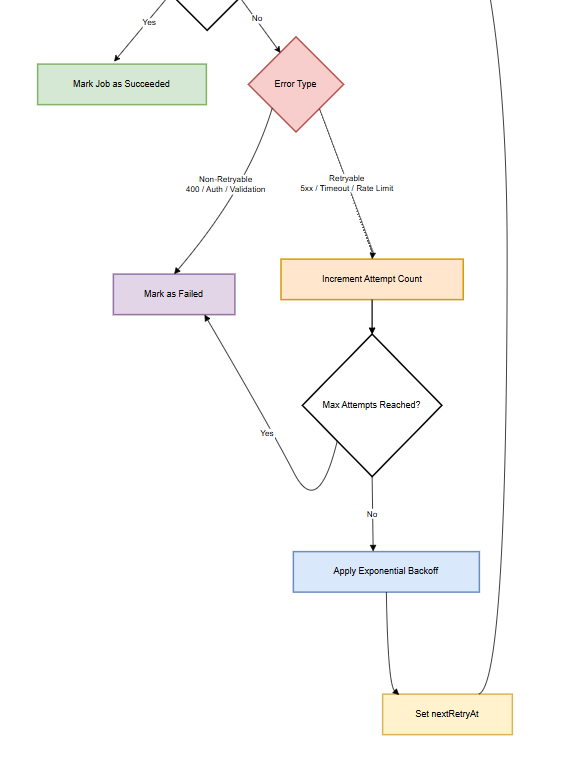
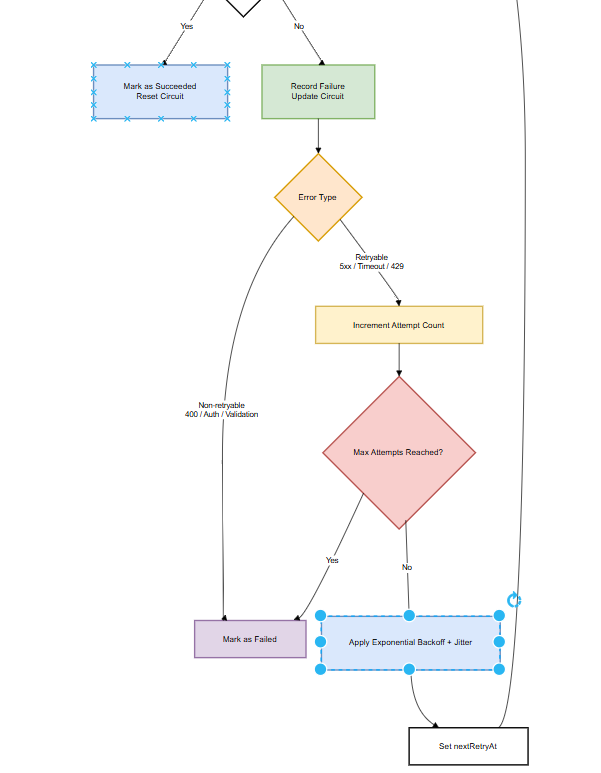
update README + change std to console

diff --git a/backend/prisma/seed.ts b/backend/prisma/seed.ts
@@ -525,9 +525,9 @@ async function main(): Promise<void> {
     ],
   });
 
-  process.stdout.write("Seed complete.\n");
-  process.stdout.write("Password for all seeded users: Password123!\n");
-  process.stdout.write(
+  console.log("Seed complete.");
+  console.log("Password for all seeded users: Password123!");
+  console.log(
     [
       admin.email,
       managerAlex.email,
@@ -542,13 +542,13 @@ async function main(): Promise<void> {
       bankerSummitMortgage.email,
       bankerHarborPersonal.email,
       bankerHarborRefinance.email,
-    ].join("\n") + "\n"
+    ].join("\n")
   );
 }
 
 main()
   .catch((e) => {
-    process.stderr.write(`${e instanceof Error ? e.stack ?? e.message : String(e)}\n`);
+    console.error(e instanceof Error ? e.stack ?? e.message : String(e));
     process.exit(1);
   })
   .finally(async () => {

diff --git a/backend/src/middleware/error-handler.ts b/backend/src/middleware/error-handler.ts
@@ -15,7 +15,7 @@ export function errorHandler(
     return;
   }
   const asError = err instanceof Error ? err : new Error(typeof err === "string" ? err : JSON.stringify(err));
-  process.stderr.write(`[error] ${asError.name}: ${asError.message}\n${asError.stack ?? ""}\n`);
+  console.error(`[error] ${asError.name}: ${asError.message}\n${asError.stack ?? ""}`);
   res.status(500).json({
     error: "internal_error",
     message: "Something went wrong. Please try again.",

diff --git a/backend/src/jobs/refresh-token-cleanup.ts b/backend/src/jobs/refresh-token-cleanup.ts
@@ -9,7 +9,7 @@ export function startRefreshTokenCleanupJob(): () => void {
       await authRepo.deleteExpiredRefreshTokens();
     } catch (e) {
       const msg = e instanceof Error ? e.message : String(e);
-      process.stderr.write(`[refresh-token-cleanup] ${msg}\n`);
+      console.error(`[refresh-token-cleanup] ${msg}`);
     }
   };
   void run();

diff --git a/backend/src/event-bus/event-bus.ts b/backend/src/event-bus/event-bus.ts
@@ -20,7 +20,7 @@ export class EventBus {
         (h as Handler<T>)(payload);
       } catch (err) {
         const msg = err instanceof Error ? err.message : String(err);
-        process.stderr.write(`[EventBus] handler error on "${event}": ${msg}\n`);
+        console.error(`[EventBus] handler error on "${event}": ${msg}`);
       }
     }
   }

diff --git a/backend/src/index.ts b/backend/src/index.ts
@@ -13,5 +13,5 @@ const app = createApp(env, appEventBus);
 startRefreshTokenCleanupJob();
 
 app.listen(env.port, () => {
-  process.stdout.write(`listening on ${env.port}\n`);
+  console.log(`listening on ${env.port}`);
 });

diff --git a/README.md b/README.md
@@ -92,7 +92,7 @@ The backend follows a **layered** structure so HTTP, use cases, and persistence 
 - **`controllers/`** — Map HTTP to service calls; path and query inputs use **Zod** via `parseParams` / `parseQuery` where applicable (`validation/`).
 - **`services/`** — Use cases and orchestration; **Zod** validates inbound JSON bodies where the service owns the contract (auth, events, open auction, submit offer).
 - **`repositories/`** — Prisma access and query shapes; keeps SQL/ORM details out of services.
-Using the **Repository** pattern is important because it creates a clear separation between business logic and data access, making the system easier to maintain, test, and evolve over time. It allows the application to remain independent of the underlying database or **ORM** (such as **Prisma**), enabling safer refactoring and easier mocking in tests. This abstraction becomes especially valuable as the system grows, helping enforce cleaner architecture and reducing tight coupling between layers.
+Using the Repository pattern is important because it creates a clear separation between business logic and data access, making the system easier to maintain, test, and evolve over time. It allows the application to remain independent of the underlying database or ORM (such as Prisma), enabling safer refactoring and easier mocking in tests. This abstraction becomes especially valuable as the system grows, helping enforce cleaner architecture and reducing tight coupling between layers.
 - **`mappers/`** — API-facing DTOs (for example stripping fields for banker responses).
 - **`event-bus/`** — Lightweight **in-process** pub/sub (`EventBus`: `on` / `emit`). Used for reactions after a row is written, not as a replacement for HTTP.
 - **`middleware/`** — Auth, errors, request context.
@@ -108,9 +108,9 @@ The frontend uses the **App Router**, **React Query** for server state, a shared
 
 ## Assumptions
 - **Document upload / notes** — Document and note events are modeled conceptually without a dedicated storage layer or blob system. This simplifies the architecture and keeps the scope focused.
-- **Account eligibility logic** — An account becomes eligible for auctions only after document upload and reaching the **`READY_FOR_AUCTION`** state. This enforces a clear business rule that ensures only verified accounts enter financial workflows, improving data integrity and process correctness.
+- **Account eligibility logic** — An account becomes eligible for auctions only after document upload and reaching the READY_FOR_AUCTION state. This enforces a clear business rule that ensures only verified accounts enter financial workflows, improving data integrity and process correctness.
 - **Admin restriction on bank offers** — Despite full RBAC permissions, admins are not allowed to create bank offers because they are not associated with a specific financial institution context. This enforces domain correctness over pure permission flexibility, preventing logically invalid system states.
-- **User–account relationship model** — **Users** are allowed to be linked to **accounts** and perform actions directly on them without additional approval layers.
+- **User-account relationship model** — Users are allowed to be linked to accounts and perform actions directly on them without additional approval layers.
 
 ---
 
@@ -155,7 +155,7 @@ Classes are used for **constructor injection**: each type holds its collaborator
 
 **Typical request flow**
 
-**`modules/`** route factories apply middleware, then call a **controller** method. The controller parses path/query, calls **one service** (or a small set), maps the result to **JSON**. The service enforces rules and **RBAC** helpers, calls **repositories** and sometimes **`EventBus`** / **`EventSideEffectService`**. **Repositories** are the only layer that use **Prisma** directly.
+**modules/*** routes apply middleware, then call a **controller** method. The controller parses path/query, calls **one service** (or a small set), maps the result to JSON. The service enforces rules and RBAC helpers, calls **repositories** and sometimes **EventBus** / **EventSideEffectService**. Repositories are the only layer that use **Prisma** directly.
 
 **Controllers** (HTTP adapter only; no Prisma)
 
@@ -223,7 +223,7 @@ Classes are used for **constructor injection**: each type holds its collaborator
 
 **SQL** was chosen for this project because the system is fundamentally built around structured, highly related data such as accounts, users, auctions, offers, and audit events. 
 
-These entities have clear relationships and business rules that must be enforced consistently, and a relational database like **PostgreSQL** provides strong guarantees around data integrity, transactions, and consistency (**ACID** — every operation in the database must preserve all defined rules and constraints, ensuring the system always remains in a valid and reliable state before and after each transaction), which are critical in a financial context where incorrect or partial data is not acceptable.
+These entities have clear relationships and business rules that must be enforced consistently, and a relational database like **PostgreSQL** provides strong guarantees around data integrity, transactions, and consistency (ACID - means that every operation in the database must preserve all defined rules and constraints, ensuring the system always remains in a valid and reliable state before and after each transaction), which are critical in a financial context where incorrect or partial data is not acceptable.
 
 
 At the same time, SQL enables efficient querying across relationships, making it well-suited for features like dashboards, audit trails, and complex filtering (for example, retrieving all offers for an account or tracking historical events). This aligns naturally with the needs of this project, where both operational workflows and data analysis are important.
@@ -231,7 +231,7 @@ At the same time, SQL enables efficient querying across relationships, making it
 
 The main tradeoff is reduced flexibility compared to NoSQL solutions: schema changes require planning and migrations, and scaling horizontally can be more complex. In addition, highly dynamic or unstructured data can be less convenient to model. However, in this case, the benefits of strong consistency, relational integrity, and reliable transactions clearly outweigh these limitations, making SQL the more appropriate choice for the system.
 
-**Prisma** is used as the **ORM** (Object-Relational Mapping) layer between the application and the database, providing a type-safe and structured **API** instead of writing raw **SQL** queries. This improves developer productivity through auto-generated types, reduces runtime errors, and helps maintain consistency between the database schema and the application code. In addition, Prisma adds a layer of security by preventing common vulnerabilities such as SQL injection, since queries are parameterized by default and not constructed manually.
+**Prisma** is used as the ORM (Object-Relational Mapping) layer between the application and the database, providing a type-safe and structured API instead of writing raw SQL queries. This improves developer productivity through auto-generated types, reduces runtime errors, and helps maintain consistency between the database schema and the application code. In addition, Prisma adds a layer of security by preventing common vulnerabilities such as SQL injection, since queries are parameterized by default and not constructed manually.
 
 ![My Image](./assets/schemaERD.png)
 
@@ -242,8 +242,8 @@ The main tradeoff is reduced flexibility compared to NoSQL solutions: schema cha
 **Roles**
 
 - **`ADMIN`** — Full staff visibility where middleware allows it; **resource checks** still apply on account-scoped routes (see below).
-- **`MANAGER`** — Owns accounts (`Account.managerId`); opens and closes **auctions** for those accounts.
-- **`USER`** — Access only to **assigned** accounts (`AccountUser`), and can create **`document_uploaded`** and **`note_added`** events.
+- **`MANAGER`** — Owns accounts (`Account.managerId`); opens and closes auctions for those accounts.
+- **`USER`** — Access only to **assigned** accounts (`AccountUser`), and can create document_uploaded and note_added events.
 - **`BANKER`** — Participates in auctions and offers; **must not** see account lists, account detail, or customer PII through staff APIs.
 
 **HTTP layer**
@@ -271,7 +271,7 @@ Together, RBAC is **defense in depth**: route guards for coarse role boundaries,
 
 ## Blind auction model
 
-The **blind** auction model was chosen to ensure fairness and reduce **bias** between participants by preventing them from seeing each other’s offers during the bidding process. This approach encourages more **realistic and independent pricing**, since each user submits their offer without being influenced by competitors’ bids or strategic manipulation. In the context of **Creditly**, where financial decisions and account evaluations are involved, this model helps create a more objective and trustworthy selection process for the **winning offer**, while also simplifying the logic of comparison since all bids are revealed only at the decision stage.
+The **blind** auction model was chosen to ensure fairness and reduce bias between participants by preventing them from seeing each other’s offers during the bidding process. This approach encourages more **realistic and independent pricing**, since each user submits their offer without being influenced by competitors’ bids or strategic manipulation. In the context of Creditly, where financial decisions and account evaluations are involved, this model helps create a more objective and trustworthy selection process for the winning offer, while also simplifying the logic of comparison since all bids are revealed only at the decision stage.
 
 **What bankers see**
 
@@ -290,39 +290,39 @@ The database still stores foreign keys linking offers to accounts; **blindness i
 ---
 
 ## Event-driven design
-The system uses an event-driven architecture to decouple core business actions from their side effects. Instead of handling everything synchronously (e.g. updating the database, triggering **CRM** sync, and logging within the same flow), the application emits events such as `offer_submitted` or `document_uploaded`, and separate listeners handle the required follow-up actions. This makes the system more modular, easier to extend, and more maintainable, since new behaviors can be added without changing existing logic. In a project like this, this is especially useful for handling integrations and background processes, while keeping the main request flow simple and responsive.
+The system uses an event-driven architecture to decouple core business actions from their side effects. Instead of handling everything synchronously (e.g. updating the database, triggering CRM sync, and logging within the same flow), the application emits events such as offer_submitted or document_uploaded, and separate listeners handle the required follow-up actions. This makes the system more modular, easier to extend, and more maintainable, since new behaviors can be added without changing existing logic. In a project like this, this is especially useful for handling integrations and background processes, while keeping the main request flow simple and responsive.
 
 Two related concepts coexist:
 
-The system uses two complementary mechanisms: **persisted `Event` rows** for auditability, and an **in-process** **`EventBus`** for asynchronous side effects.
+The system uses two complementary mechanisms: persisted events for auditability, and an in-process event bus for asynchronous side effects.
 
-Persisted **`Event`** rows represent the audit timeline of each account. These are written to the database via **`EventService`** (and other flows), and serve as the single source of truth for historical actions. **`userId`** is always derived from the authenticated user context, ensuring that no untrusted input can affect audit data.
+Persisted Event rows represent the audit timeline of each account. These are written to the database via EventService (and other flows), and serve as the single source of truth for historical actions. The userId is always derived from the authenticated user context, ensuring that no untrusted input can affect audit data.
 
-In-process **`EventBus`** is used to trigger asynchronous workflows after the main operation completes. Once an event is persisted and all synchronous business rules are applied, **`publishAccountEventCreated`** emits an **`ACCOUNT_EVENT_CREATED`** event (wire value: **`event.created`**) with an **`AccountEventCreatedPayload`**. This allows subscribers to react without overloading the **HTTP** request lifecycle.
+In-process EventBus is used to trigger asynchronous workflows after the main operation completes. Once an event is persisted and all synchronous business rules are applied, publishAccountEventCreated emits an ACCOUNT_EVENT_CREATED event (wire value: event.created) with an AccountEventCreatedPayload. This allows subscribers to react without overloading the HTTP request lifecycle.
 
 **Order of operations (staff-created events via `POST /events`)**
 
-The **`Event`** row is persisted in the database.
-**`EventSideEffectService.applyOnEventCreated`** runs synchronously within **`EventService`** to handle immediate business rules (e.g. updating account readiness after **`DOCUMENT_UPLOADED`**, tracking high activity).
-The system emits **`ACCOUNT_EVENT_CREATED`** for asynchronous subscribers (currently **CRM** sync via **`CrmSyncService`**).
+The Event row is persisted in the database.
+EventSideEffectService.applyOnEventCreated runs synchronously within EventService to handle immediate business rules (e.g. updating account readiness after DOCUMENT_UPLOADED, tracking high activity).
+The system emits ACCOUNT_EVENT_CREATED for asynchronous subscribers (currently CRM sync via CrmSyncService).
 
 In certain cases, additional events are generated automatically:
 
-When **`DOCUMENT_UPLOADED`** transitions an account from **`NEW`** to **`READY_FOR_AUCTION`**, a new **`STATUS_CHANGED`** event is persisted and emitted.
-After a winning offer is selected, a **`STATUS_CHANGED`** event (`AUCTION_OPEN` → `WON`) is recorded before triggering the dedicated **winning-offer** event.
+When DOCUMENT_UPLOADED transitions an account from NEW to READY_FOR_AUCTION, a new STATUS_CHANGED event is persisted and emitted.
+After a winning offer is selected, a STATUS_CHANGED event (AUCTION_OPEN → WON) is recorded before triggering the dedicated winning-offer event.
 
 **Event listeners** 
 
-Listeners are registered at application startup (**`registerEventBusListeners`**) and handle specific event types:
+Listeners are registered at application startup (registerEventBusListeners) and handle specific event types:
 
-**`ACCOUNT_EVENT_CREATED`** → handled by **`CrmSyncService.handleAfterAccountEventCreated`** for selected event types (**`DOCUMENT_UPLOADED`**, **`STATUS_CHANGED`**, **`AUCTION_OPENED`**). Other events are ignored.
-**`winning.offer.selected`** → handled by **`CrmSyncService.handleWinningOfferSelected`** after a winning offer is recorded.
+ACCOUNT_EVENT_CREATED → handled by CrmSyncService.handleAfterAccountEventCreated for selected event types (DOCUMENT_UPLOADED, STATUS_CHANGED, AUCTION_OPENED). Other events are ignored.
+winning.offer.selected → handled by CrmSyncService.handleWinningOfferSelected after a winning offer is recorded.
 
-Failures in these flows update **`syncStatus`** and **`failureReason`** on the **account**.
+Failures in these flows update syncStatus and failureReason on the account.
 
-**Trade-off**
+**Trade-off** 
 
-Event handlers run **asynchronously** after the main **HTTP** flow completes and the primary data is already **persisted**. This improves **performance** and keeps request handling fast, but introduces **eventual consistency**: if a **subscriber** fails (e.g. **CRM** sync), the main operation is **not** rolled back. Instead, failures are logged and tracked for later handling.
+Event handlers run asynchronously after the main HTTP flow completes and the primary data is already persisted. This improves performance and keeps request handling fast, but introduces eventual consistency: if a subscriber fails (e.g. CRM sync), the main operation is not rolled back. Instead, failures are logged and tracked for later handling.
 
 ![My Image](./assets/event-driven-flow.png)
 
@@ -330,26 +330,28 @@ Event handlers run **asynchronously** after the main **HTTP** flow completes and
 
 ## CRM outbound integration (mock)
 
-**CRM integration (Dependency Injection)**
+**CRM Integration Design (with Dependency Injection)**
 
-**Dependency Injection** (**DI**) is used to decouple business logic from the **CRM** client implementation. The service depends on an abstract interface, allowing **`MockCrmApiClient`** to be injected during development and testing. This makes the system easier to test, replace, and extend — for example, switching to a real **CRM** integration in production without changing the core business logic. It also improves code organization and aligns with **clean architecture** principles by separating external dependencies from the domain layer.
+The CRM integration is designed using Dependency Injection (DI) to decouple the business logic from the actual implementation of the CRM client.
 
-**`CrmApiClient`** defines a minimal interface with a single method **`push(accountId, ctx)`** that returns a **`Promise`**. The system depends only on this interface, not on a specific implementation. This allows replacing the mock with a real **HTTP**-based client (e.g. **Salesforce**, **HubSpot**, or an internal **CRM API**) without changing the application logic.
+Dependency Injection (DI) is used with the CRM mock service to decouple the integration layer from a specific implementation. Instead of tightly coupling the system to a concrete CRM client, the service depends on an abstract interface, allowing the crmPushMock to be injected during development and testing. This makes the system easier to test, replace, and extend—for example, switching to a real CRM integration in production without changing the core business logic. It also improves code organization and aligns with clean architecture principles by separating external dependencies from the domain layer.
 
-**`MockCrmApiClient`** is a development/testing implementation of this interface. It simulates asynchronous behavior and randomly fails based on a configurable **`CRM_FAILURE_RATE`**. This makes it possible to test failure scenarios and system resilience without relying on an external service.
+**CrmApiClient** defines a minimal interface with a single method `push(accountId, ctx)` that returns a Promise. The system depends only on this interface, not on a specific implementation. This allows replacing the mock with a real HTTP-based client (e.g. Salesforce, HubSpot, or an internal CRM API) without changing the application logic.
 
-**`CrmSyncService`** contains the actual orchestration logic. It receives a **`crmClient`** via **DI** and is responsible for:
+**MockCrmApiClient** is a development/testing implementation of this interface. It simulates asynchronous behavior and randomly fails based on a configurable `CRM_FAILURE_RATE`. This makes it possible to test failure scenarios and system resilience without relying on an external service.
 
-- Filtering relevant events (**`TRIGGER_EVENTS`**)
-- Building a context (**`ctx`**) for logging and debugging
-- Calling **`crmClient.push`**
-- Updating **sync** status in the database (success/failure)
+**CrmSyncService** contains the actual orchestration logic. It receives a `crmClient` via DI and is responsible for:
 
-All logic is centralized in a shared **`syncAccount`** method to avoid duplication and ensure consistent handling.
+Filtering relevant events (`TRIGGER_EVENTS`)
+Building a context (`ctx`) for logging and debugging
+Calling `crmClient.push`
+Updating sync status in the database (success/failure)
 
-**Event bus** integration ensures that listeners interact only with **`CrmSyncService`**, never directly with the **CRM** client implementation. This keeps the system loosely coupled and aligned with clean architecture principles.
+All logic is centralized in a shared `syncAccoun`t method to avoid duplication and ensure consistent handling.
 
-For events like **`winning.offer.selected`**, the same **`syncAccount`** flow is reused with a different **context**, ensuring consistency and avoiding redundant code.
+**Event bus integration** ensures that listeners interact only with `CrmSyncService`, never directly with the CRM client implementation. This keeps the system loosely coupled and aligned with clean architecture principles.
+
+For events like `winning.offer.selected`, the same `syncAccount` flow is reused with a different context, ensuring consistency and avoiding redundant code.
 
 
 ---
@@ -394,11 +396,11 @@ The periodic **`startRefreshTokenCleanupJob`** deletes rows whose **`expiresAt` 
 
 ![My Image](./assets/clean-refresh-job.png)
 
-The authentication system implemented here is based on a combination of widely adopted industry practices, balanced with practical product needs, focusing on **security**, **performance**, and **user experience**.
+The authentication system implemented here is based on a combination of widely adopted industry practices, balanced with practical product needs, focusing on security, performance, and user experience.
 
-The architecture uses **short-lived access tokens** alongside a separate **refresh** token mechanism, which reduces the impact of a potential token leak by limiting the **exposure** window. In addition, **refresh token rotation** is implemented, where each refresh **invalidates** the previous token and issues a new one. This approach reduces the risk of **token reuse**.
+The architecture uses short-lived access tokens alongside a separate refresh token mechanism, which reduces the impact of a potential token leak by limiting the exposure window. In addition, refresh token rotation is implemented, where each refresh invalidates the previous token and issues a new one. This approach reduces the risk of token reuse.
 
-This design reflects a deliberate trade-off: it prioritizes a smooth user experience and simple authentication flow while still maintaining a standard and secure JWT-based model with HttpOnly cookies. There is no single universally “best” authentication strategy; the right balance depends on risk level, compliance requirements, and UX constraints. 
+This design reflects a deliberate **trade-off**: it prioritizes a smooth user experience and simple authentication flow while still maintaining a standard and secure JWT-based model with HttpOnly cookies. There is no single universally “best” authentication strategy; the right balance depends on risk level, compliance requirements, and UX constraints. 
 
 ---
 
@@ -420,13 +422,13 @@ This design reflects a deliberate trade-off: it prioritizes a smooth user experi
 ## Reporting Aggregations and Scalability Considerations
 
 
-At the moment, the main aggregations in this project are concentrated in **`AnalyticsRepository`** (status-based counts plus offer aggregations such as average/min interest), with a few targeted counts used for business rules (for example, **`countEventsSince`** for high-activity detection and `_count` checks for auction-offer decisions). I chose live aggregation (compute at request time) because it is simple, keeps the architecture lean, and always returns the most current data without adding extra pipelines. The trade-off is that as data volume grows, these queries become more expensive (higher I/O/CPU and latency). At larger scale, moving to pre-aggregation (persisted summary tables/metrics updated on a schedule or via events) or materialized views (database-stored results of aggregation queries refreshed periodically/on demand) would likely be more efficient for read-heavy analytics. The trade-off there is added operational complexity and possible data staleness between refresh cycles.
+At the moment, the main aggregations in this project are concentrated in AnalyticsRepository (status-based counts plus offer aggregations such as average/min interest), with a few targeted counts used for business rules (for example, countEventsSince for high-activity detection and _count checks for auction-offer decisions). I chose live aggregation (compute at request time) because it is simple, keeps the architecture lean, and always returns the most current data without adding extra pipelines. The trade-off is that as data volume grows, these queries become more expensive (higher I/O/CPU and latency). At larger scale, moving to pre-aggregation (persisted summary tables/metrics updated on a schedule or via events) or materialized views (database-stored results of aggregation queries refreshed periodically/on demand) would likely be more efficient for read-heavy analytics. The trade-off there is added operational complexity and possible data staleness between refresh cycles.
 
 ---
 
 ## Transaction Strategy and Consistency Trade-Offs
 
-Database transactions are used in the project for multi-step writes that must stay **atomic**, mainly around account and auction lifecycle flows (for example: creating an account plus optional **`AccountUser`** link, creating an auction plus status/event updates, creating an offer plus **`OFFER_SUBMITTED`** event, and closing auction + marking account **`WON`**). This ensures consistency and prevents partial state when one step fails. The benefit is strong integrity on critical business workflows with relatively simple repository-level orchestration. The trade-off is longer lock windows and lower throughput under heavy concurrency if transactions become large or long-running. At larger scale, a common evolution is to keep transactions short and move cross-boundary side effects to using patterns such as outbox or event-driven flows. similarly, for high-write contention, optimistic concurrency and narrower update scopes can reduce lock pressure. In this codebase, this separation is already partially applied, as CRM synchronization is handled asynchronously after the transaction completes rather than within it.
+Database transactions are used in the project for multi-step writes that must stay atomic, mainly around account and auction lifecycle flows (for example: creating an account plus optional AccountUser link, creating an auction plus status/event updates, creating an offer plus OFFER_SUBMITTED event, and closing auction + marking account WON). This ensures consistency and prevents partial state when one step fails. The benefit is strong integrity on critical business workflows with relatively simple repository-level orchestration. The trade-off is longer lock windows and lower throughput under heavy concurrency if transactions become large or long-running. At larger scale, a common evolution is to keep transactions short and move cross-boundary side effects to using patterns such as outbox or event-driven flows. similarly, for high-write contention, optimistic concurrency and narrower update scopes can reduce lock pressure. In this codebase, this separation is already partially applied, as CRM synchronization is handled asynchronously after the transaction completes rather than within it.
 
 ---
 ## Trade-offs
@@ -441,16 +443,25 @@ Database transactions are used in the project for multi-step writes that must st
 - **Analytics design** — The selected analytics focus on operational visibility (e.g. total accounts, auction states, offer metrics, CRM sync success/failure). The tradeoff is that the system does not yet support deep ad-hoc analytics, but instead prioritizes predefined, business-relevant KPIs.
 
 ---
-## Theoretical Retry Mechanism for CRM Integration 
+## Theoretical Retry + Circuit Breaker Mechanism for CRM Integration 
 
-This section describes a **theoretical** design for a retry mechanism that could be added to the CRM integration layer. It is important to clarify that this mechanism is not currently implemented in the project, but represents a possible architectural enhancement for improving reliability and fault tolerance when working with external systems.
+This section describes a **theoretical** design for a retry mechanism combined with a circuit breaker pattern for the CRM integration layer.
+This mechanism is not currently implemented in the project, but represents a production-grade enhancement for improving reliability and fault tolerance when working with external systems.
 
 ### Core Concept
 
 Instead of sending data directly to the CRM during the main business flow or within event handlers, the integration would be fully decoupled and handled asynchronously.
 
 Every request to the CRM would first be stored as a **CRM Sync Job** in the database. This job represents an intent to synchronize data, not the actual execution.
-A **background worker** would then process these jobs independently.
+A **background worker** would then process these jobs independently. Additionally, a **circuit breaker** is introduced to prevent repeated attempts when the CRM is unavailable.
+
+Responsibilities Split
+- Retry mechanism -
+Handles temporary failures by retrying requests over time.
+- Circuit breaker -
+Detects system-wide failures and temporarily stops outgoing requests to avoid overload.
+
+Together, they ensure both **resilience** and **system protection**.
 
 **This design ensures that:**
 
@@ -464,8 +475,23 @@ A **background worker** would then process these jobs independently.
 2. A CRM Sync Job is generated based on that event
 3. The job is stored in a dedicated database table
 4. A background worker continuously processes pending jobs
-5. Each job is sent to the CRM asynchronously
-6. The job status is updated based on the result
+5. Before calling CRM → circuit breaker state is checked
+6. Request is sent (or skipped if circuit is open)
+7. Retry logic applies if needed
+
+### Circuit Breaker Logic
+
+The circuit breaker operates in three states:
+
+- **Closed (normal)** - 
+Requests flow normally. Failures are tracked.
+- **Open (blocked)** - 
+After multiple consecutive failures, requests are stopped immediately (fail fast).
+Jobs are not sent to CRM, only rescheduled.
+- **Half-Open (test mode)** - 
+After a cooldown period, a limited number of requests are allowed:
+If successful → back to Closed, 
+If failed → back to Open
 
 
 ### Retry Logic
@@ -499,45 +525,52 @@ Retry attempts are spaced progressively:
 
 Attempt 1: immediate **->** Attempt 2: ~30 seconds **->** Attempt 3: ~1 minute **->** Attempt 4: ~2 minutes **->** Attempt 5: ~5 minutes
 
+- **jitter** 
 
-**Retry limits**
-- Maximum number of attempts: 5
-- After reaching the limit → job is marked as failed
+Small randomness is added to avoid synchronized retries
 
-**Idempotency Requirement**
+- **Retry limits**
 
-Every **CRM** request would include a stable unique identifier (such as **`eventId`**) to ensure **idempotent** behavior.
+Maximum number of attempts: 5
+
+After reaching the limit → job is marked as failed
+
+### Idempotency Requirement
+
+Every CRM request would include a stable unique identifier (such as eventId) to ensure idempotent behavior.
 
 This guarantees that even if a retry occurs after partial success or uncertainty, the CRM does not process duplicate actions.
 
-**Benefits of this approach**
+### Benefits of this approach
 
-Complete separation between business logic and external integrations
-No dependency on CRM availability during user requests
-Controlled and observable failure handling
-Safe retry behavior without data duplication
-Easy scalability using multiple workers
+- Prevents retry storms when CRM is down
+- Protects both your system and the external CRM
+- Improves recovery behavior after outages
+- Maintains system stability under failure conditions
+- Enables safe horizontal scaling of workers
+
 
 ![My Image](./assets/retry-1.png)
 
 ![My Image](./assets/retry-2.png)
 
+
 ---
 ## What I would do in a larger scale and real production
  - **Message broker** — In a production-ready system, I would extract event handling into a dedicated message broker system such as Kafka. A message broker is middleware that enables asynchronous communication between services by publishing events to topics and consuming them independently. Instead of tightly coupling event logic inside the main backend, producers would publish events (e.g. `document_uploaded`) to specific topics, and separate consumer services would process them (e.g. syncing with CRM or writing to the database).
- This approach typically also involves introducing a **separate dedicated service (or multiple services) for event processing**, decoupled from the core backend. As a result, each part of the system can be scaled independently: the **API** layer can scale based on request load, while the event-processing services can scale based on event volume. This leads to significantly higher and more flexible **scalability**, since consumers can be **horizontally** scaled without affecting the core application.
-Overall, this improves scalability, separation of concerns, and **fault tolerance**. The system can handle high throughput more effectively, grow the number of event types and consumers independently, and isolate failures in event processing from the main user-facing flows. It also reduces complexity in the core application logic and supports distributed processing at scale.
+ This approach typically also involves introducing a **separate dedicated service (or multiple services) for event processing**, decoupled from the core backend. As a result, each part of the system can be scaled independently: the API layer can scale based on request load, while the event-processing services can scale based on event volume. This leads to significantly higher and more flexible **scalability**, since consumers can be horizontally scaled without affecting the core application.
+Overall, this improves scalability, separation of concerns, and fault tolerance. The system can handle high throughput more effectively, grow the number of event types and consumers independently, and isolate failures in event processing from the main user-facing flows. It also reduces complexity in the core application logic and supports distributed processing at scale.
 
 - **Rate limiting** — This mechanism controls how many requests a user can send within a given time window (e.g. 10 requests per hour). It is important in production systems to prevent abuse, protect backend resources, and ensure fair usage across users. In a system like this, it also adds a security layer against brute-force attacks and excessive API consumption.
 - **APM** — APM tools such as Grafana (or similar observability platforms) provide real-time insights into system performance, including latency, error rates, and resource usage. In production, this would be essential for detecting bottlenecks, monitoring system health, and proactively identifying issues before they impact users.
 - **Pagination** — Instead of returning large datasets in a single request, pagination allows data to be delivered in smaller chunks. This improves performance, reduces database load, and enhances user experience by only fetching what is needed at a time, especially for lists like accounts, events, or auctions.
 - **Integration logs** — These logs track all interactions with external systems such as the CRM integration layer. They are critical for debugging synchronization issues, monitoring data consistency between systems, and ensuring traceability of external API calls in case of failures. In a production environment, I would implement this logging strategy using an observability stack such as the ELK stack (Elasticsearch, Logstash, Kibana), which enables centralized log aggregation, efficient search and filtering, and real-time visualization for monitoring and troubleshooting.
-- **Distinctive analytics colors** — Using visual indicators (e.g. colors for metrics or analytics values) helps highlight anomalies, trends, or important thresholds in the system. This improves usability by making data interpretation faster and more intuitive for end users and administrators.
+- **Districtive analytics colors** — Using visual indicators (e.g. colors for metrics or analytics values) helps highlight anomalies, trends, or important thresholds in the system. This improves usability by making data interpretation faster and more intuitive for end users and administrators.
 - **Absolute max session age** — Even if a refresh token is continuously rotated and valid, enforcing a hard maximum session duration (e.g. 30 days) ensures users are periodically re-authenticated. This improves security by limiting long-term session abuse and reducing risk from compromised tokens.
 - **Role selection in registration** — Allowing users to choose their own role during registration introduces a security risk, as it could lead to privilege escalation. Instead, roles should be assigned by administrators to ensure proper access control and maintain the integrity of the RBAC system.
 - **Manual account eligibility approval** — After document upload or account creation, an administrator manually reviews and approves the account before it becomes active. This introduces a human validation step, ensuring data quality, compliance, and preventing fraudulent or incomplete accounts from being used in the system.
 - **Password expiry mechanism** — Enforcing periodic password changes (e.g. every 30 days) increases security by limiting the lifetime of potentially compromised credentials. This is especially important in systems handling sensitive financial or personal data, as it reduces long-term exposure risk.
-- **Logs** — In a production system, I would extend the current basic logging into a structured and centralized logging strategy. This would include using structured logs (e.g. **JSON** format) with consistent fields such as **`requestId`**, **`userId`**, event type, and **timestamps**, enabling easier tracing across the system. Logs would be aggregated into a centralized platform (e.g. **ELK** stack or similar) to allow searching, monitoring, and **alerting**. I would also differentiate log levels (`info`, `warn`, `error`, `debug`) and add **correlation** between requests and background processes (such as event handling or **CRM** sync), so issues can be traced end-to-end. The goal is to improve **observability**, simplify **debugging** in distributed flows, and provide better visibility into system behavior under real production load.
+- **Logs** - In a production system, I would extend the current basic logging into a structured and centralized logging strategy. This would include using structured logs (e.g. JSON format) with consistent fields such as requestId, userId, event type, and timestamps, enabling easier tracing across the system. Logs would be aggregated into a centralized platform (e.g. ELK stack or similar) to allow searching, monitoring, and alerting. I would also differentiate log levels (info, warn, error, debug) and add correlation between requests and background processes (such as event handling or CRM sync), so issues can be traced end-to-end. The goal is to improve observability, simplify debugging in distributed flows, and provide better visibility into system behavior under real production load.
 
 ---
 
